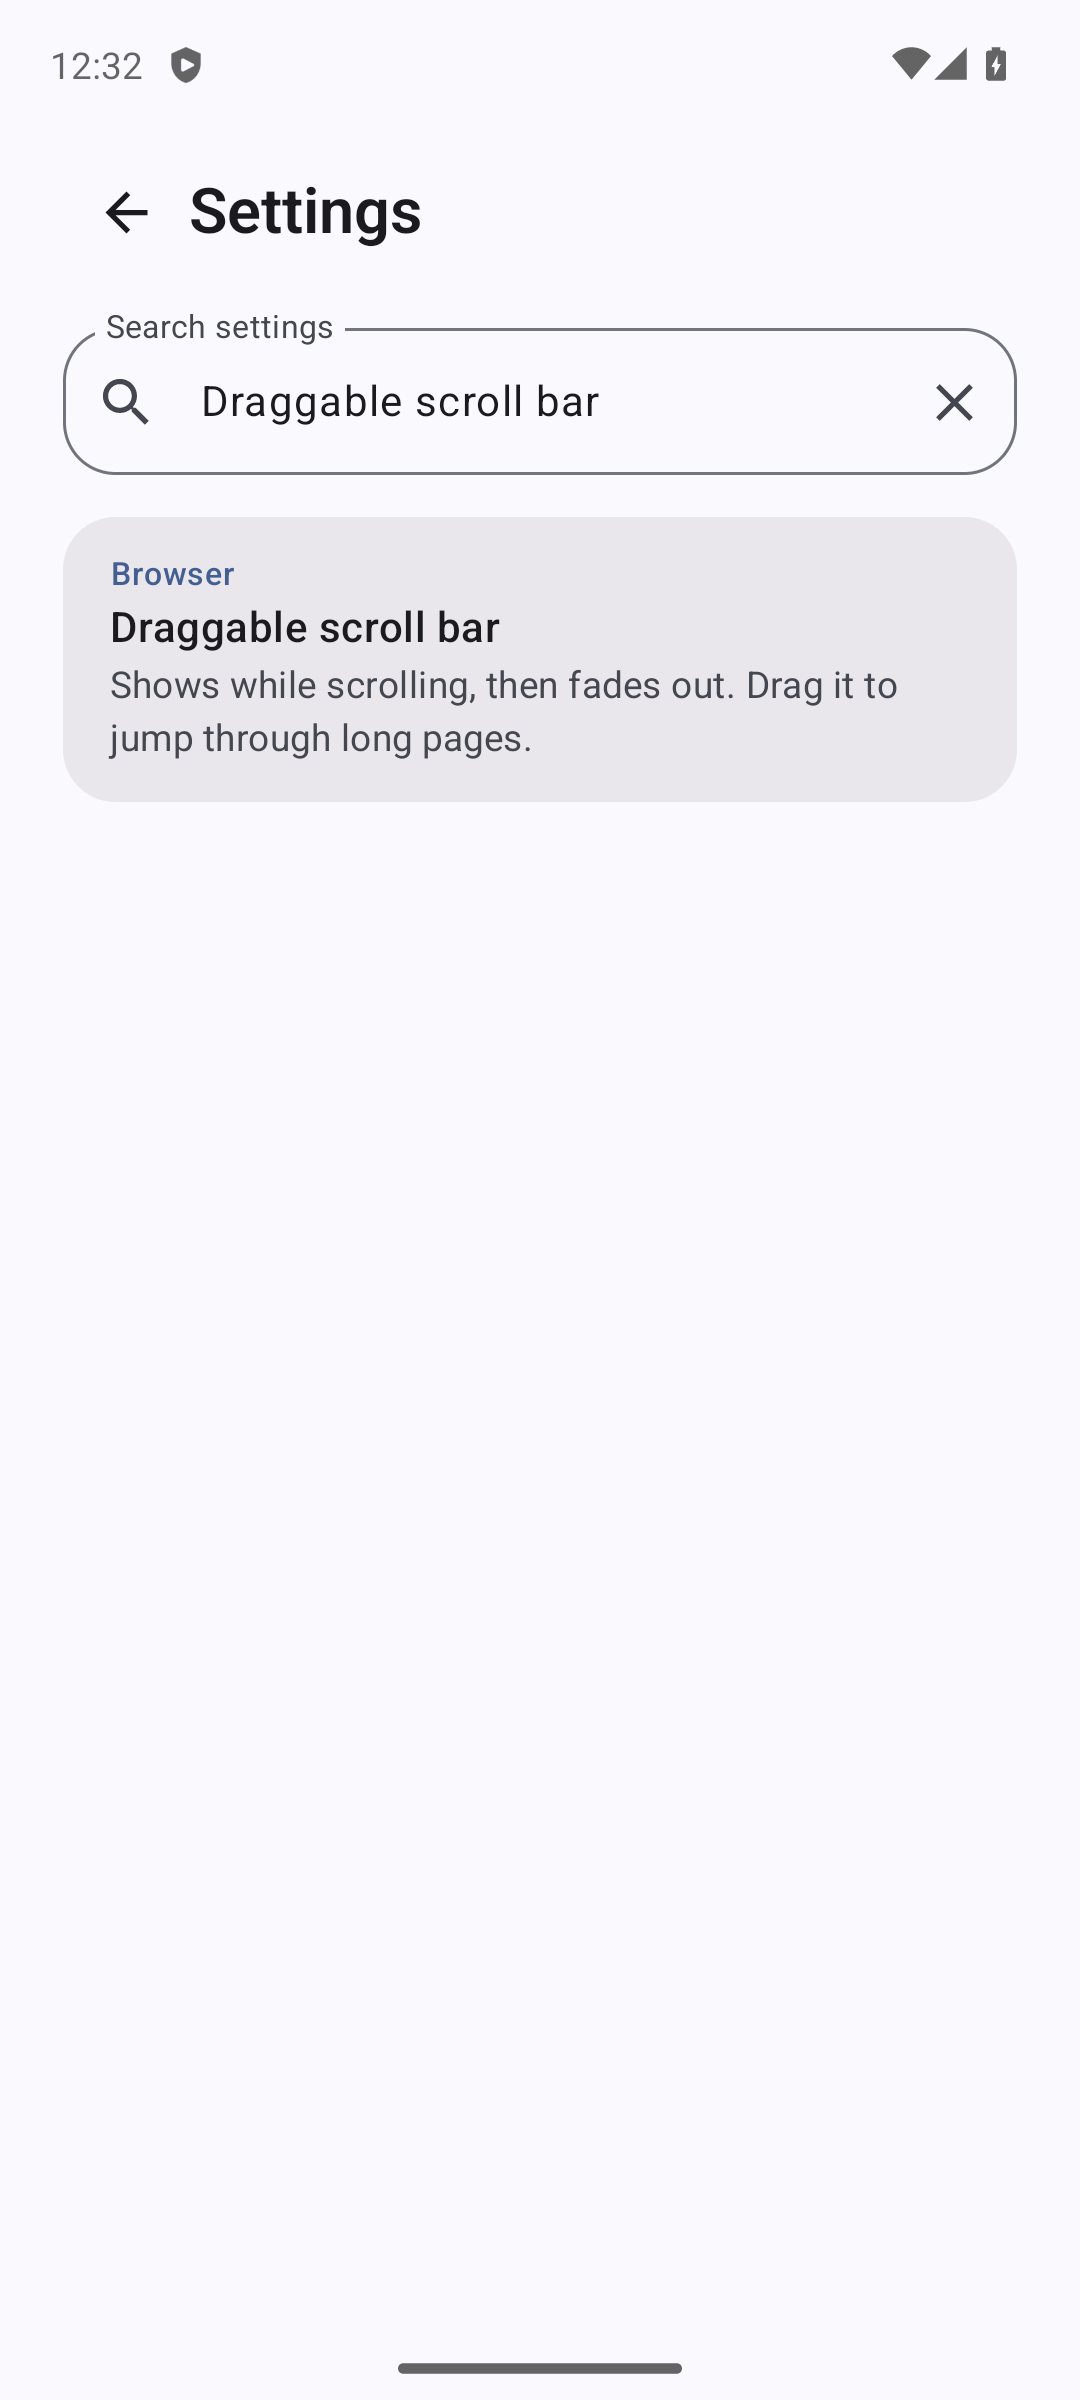
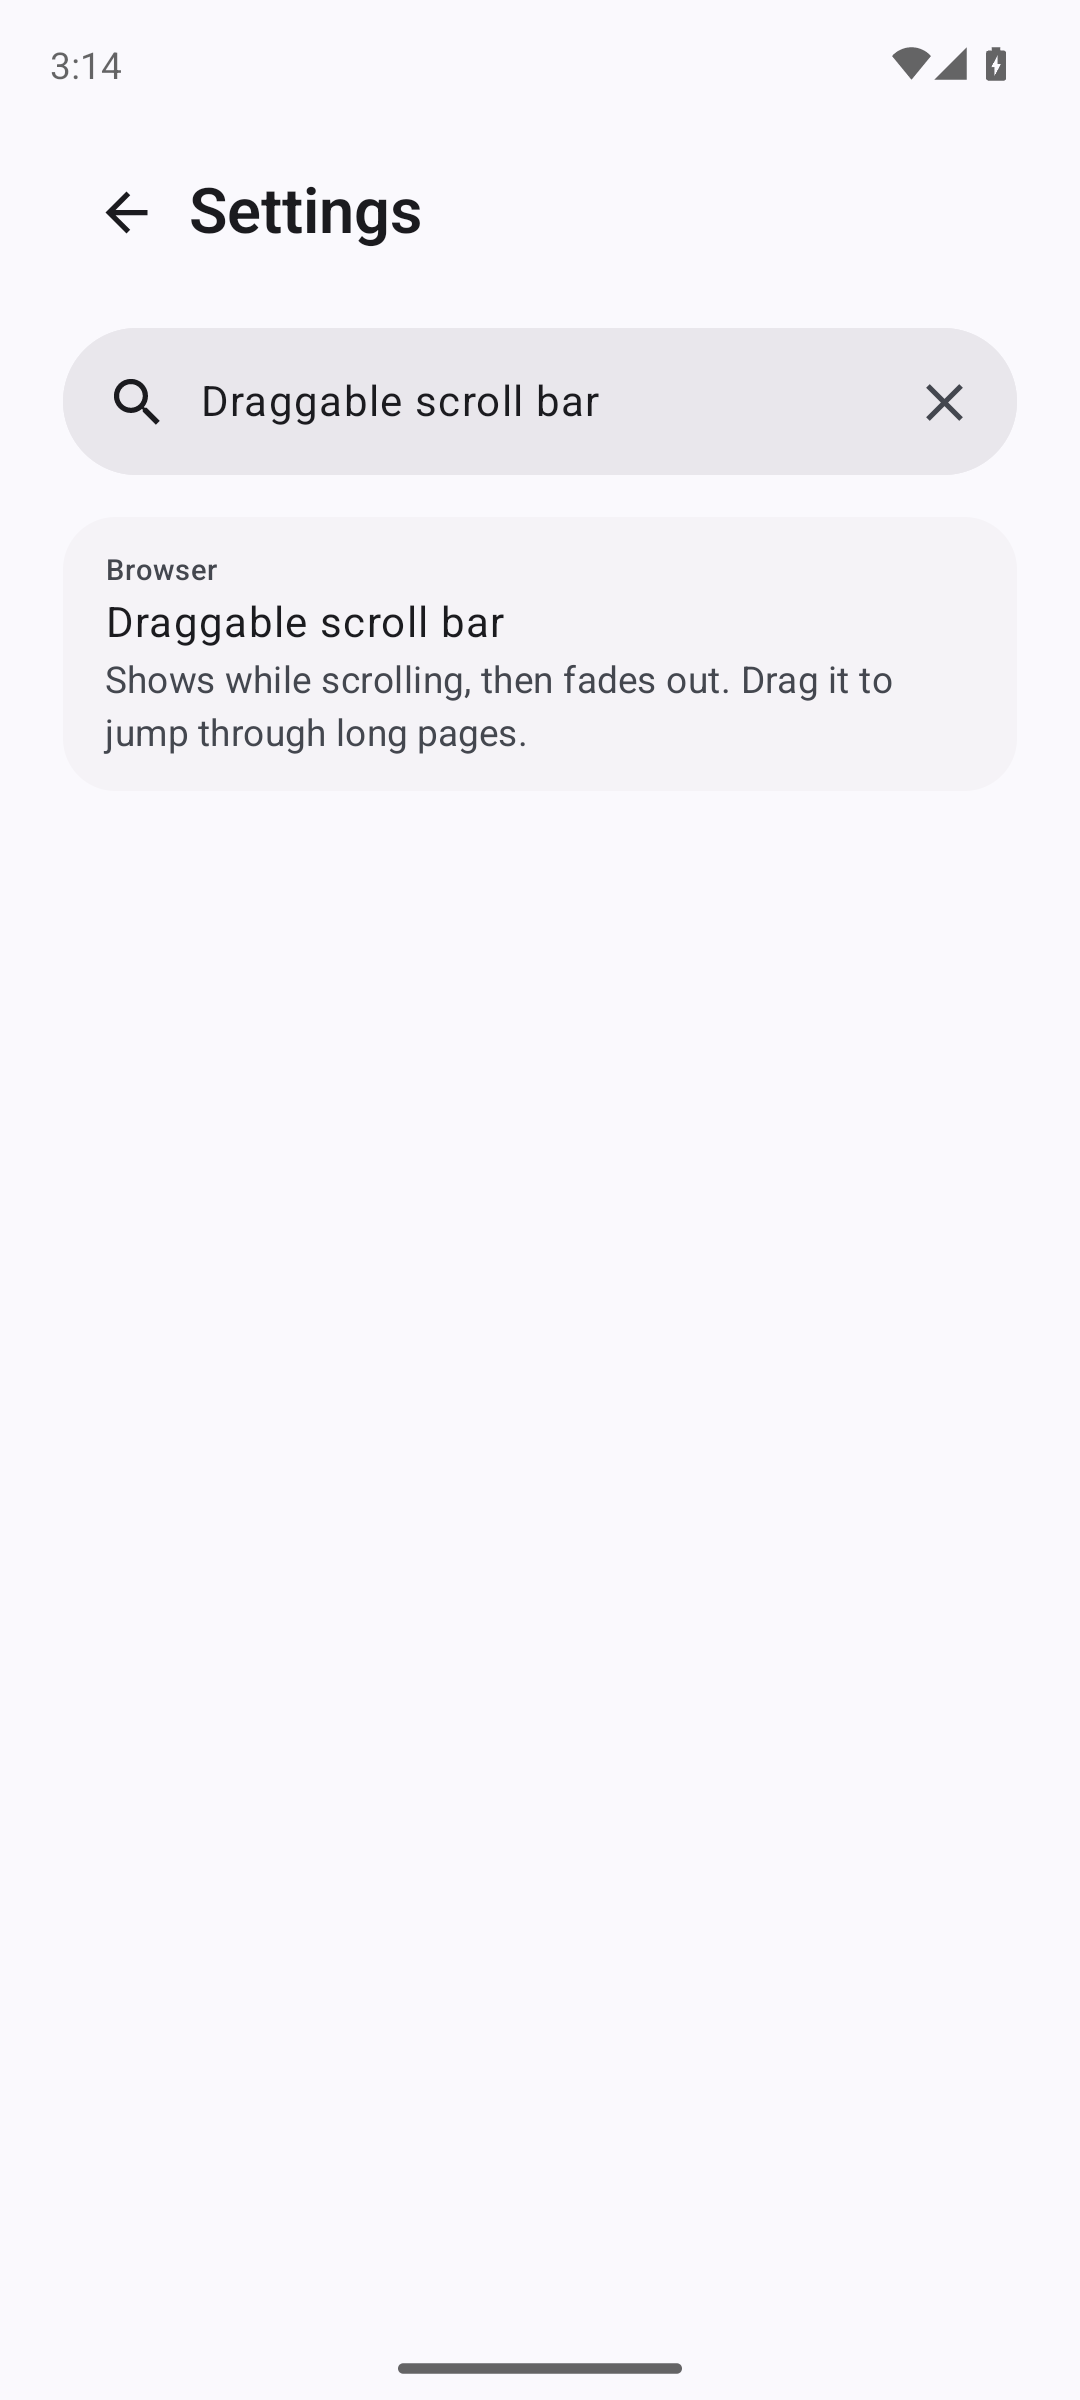
fix(settings): Use Material 3 search presentation (#269)
Replace the outlined settings input with the native Material 3 search bar
and shared list results. Preserve matching, routes and ephemeral query
behavior, and verify the 56 dp input in MainActivity instrumentation.

Include the integrated Full/Foss validation report and real API 34 UI
captures.

Refs #253

diff --git a/app/src/main/java/dev/sk2andy/materialbrowser/ui/SettingsSearchField.kt b/app/src/main/java/dev/sk2andy/materialbrowser/ui/SettingsSearchField.kt
@@ -1,29 +1,33 @@
 package dev.sk2andy.materialbrowser.ui
 
+import androidx.compose.foundation.clickable
 import androidx.compose.foundation.layout.Column
 import androidx.compose.foundation.layout.ColumnScope
 import androidx.compose.foundation.layout.Spacer
+import androidx.compose.foundation.layout.WindowInsets
 import androidx.compose.foundation.layout.fillMaxWidth
 import androidx.compose.foundation.layout.height
-import androidx.compose.foundation.layout.padding
-import androidx.compose.foundation.text.KeyboardActions
-import androidx.compose.foundation.text.KeyboardOptions
 import androidx.compose.material.icons.Icons
 import androidx.compose.material.icons.filled.Clear
 import androidx.compose.material.icons.filled.Search
+import androidx.compose.material3.ExperimentalMaterial3Api
 import androidx.compose.material3.Icon
 import androidx.compose.material3.IconButton
+import androidx.compose.material3.ListItem
+import androidx.compose.material3.ListItemDefaults
 import androidx.compose.material3.MaterialTheme
-import androidx.compose.material3.OutlinedTextField
+import androidx.compose.material3.SearchBar
+import androidx.compose.material3.SearchBarDefaults
 import androidx.compose.material3.Surface
 import androidx.compose.material3.Text
 import androidx.compose.runtime.Composable
 import androidx.compose.ui.Modifier
+import androidx.compose.ui.graphics.Color
 import androidx.compose.ui.platform.LocalFocusManager
 import androidx.compose.ui.platform.LocalSoftwareKeyboardController
 import androidx.compose.ui.platform.testTag
 import androidx.compose.ui.res.stringResource
-import androidx.compose.ui.text.input.ImeAction
+import androidx.compose.ui.semantics.Role
 import androidx.compose.ui.text.style.TextOverflow
 import androidx.compose.ui.unit.dp
 import dev.sk2andy.materialbrowser.R
@@ -35,6 +39,7 @@ internal object SettingsSearchTestTags {
     fun result(id: String): String = "settings_search_result_$id"
 }
 
+@OptIn(ExperimentalMaterial3Api::class)
 @Composable
 internal fun ColumnScope.SettingsSearchField(
     query: String,
@@ -44,30 +49,40 @@ internal fun ColumnScope.SettingsSearchField(
 ) {
     val keyboard = LocalSoftwareKeyboardController.current
     val focusManager = LocalFocusManager.current
-    OutlinedTextField(
-        value = query,
-        onValueChange = { onQueryChanged(it.take(SettingsSearchRules.MAX_QUERY_LENGTH)) },
-        modifier = Modifier.fillMaxWidth().testTag(SettingsSearchTestTags.Query),
-        label = { Text(stringResource(R.string.settings_search_hint)) },
-        leadingIcon = { Icon(Icons.Default.Search, contentDescription = null) },
-        trailingIcon = {
-            if (query.isNotEmpty()) {
-                IconButton(onClick = { onQueryChanged("") }) {
-                    Icon(
-                        Icons.Default.Clear,
-                        contentDescription = stringResource(R.string.history_clear_search),
-                    )
-                }
-            }
+    SearchBar(
+        inputField = {
+            SearchBarDefaults.InputField(
+                query = query,
+                onQueryChange = { onQueryChanged(it.take(SettingsSearchRules.MAX_QUERY_LENGTH)) },
+                onSearch = {
+                    keyboard?.hide()
+                    focusManager.clearFocus()
+                },
+                expanded = false,
+                onExpandedChange = {},
+                placeholder = { Text(stringResource(R.string.settings_search_hint)) },
+                leadingIcon = { Icon(Icons.Default.Search, contentDescription = null) },
+                trailingIcon = {
+                    if (query.isNotEmpty()) {
+                        IconButton(onClick = { onQueryChanged("") }) {
+                            Icon(
+                                Icons.Default.Clear,
+                                contentDescription = stringResource(R.string.history_clear_search),
+                            )
+                        }
+                    }
+                },
+                modifier = Modifier.testTag(SettingsSearchTestTags.Query),
+            )
         },
-        singleLine = true,
-        shape = MaterialTheme.shapes.large,
-        keyboardOptions = KeyboardOptions(imeAction = ImeAction.Search),
-        keyboardActions = KeyboardActions(onSearch = {
-            keyboard?.hide()
-            focusManager.clearFocus()
-        }),
-    )
+        expanded = false,
+        onExpandedChange = {},
+        windowInsets = WindowInsets(0, 0, 0, 0),
+        colors = SearchBarDefaults.colors(
+            containerColor = browserChromeColor(MaterialTheme.colorScheme.surfaceContainerHigh),
+        ),
+        modifier = Modifier.fillMaxWidth(),
+    ) {}
     Spacer(Modifier.height(16.dp))
     if (query.isBlank()) return
     val results = SettingsSearchRules.results(query, entries)
@@ -78,48 +93,48 @@ internal fun ColumnScope.SettingsSearchField(
             color = MaterialTheme.colorScheme.onSurfaceVariant,
             style = MaterialTheme.typography.bodyLarge,
         )
+        return
     }
-    results.forEach { entry ->
-        SettingsSearchResult(
-            entry = entry,
-            onClick = {
-                keyboard?.hide()
-                focusManager.clearFocus()
-                onResultSelected(entry)
-            },
-        )
-        SettingsPageSpacer()
+    Surface(
+        modifier = Modifier.fillMaxWidth(),
+        shape = MaterialTheme.shapes.large,
+        color = browserChromeColor(MaterialTheme.colorScheme.surfaceContainerLow),
+    ) {
+        Column {
+            results.forEach { entry ->
+                SettingsSearchResult(
+                    entry = entry,
+                    onClick = {
+                        keyboard?.hide()
+                        focusManager.clearFocus()
+                        onResultSelected(entry)
+                    },
+                )
+            }
+        }
     }
 }
 
 @Composable
 private fun SettingsSearchResult(entry: SettingsSearchEntry, onClick: () -> Unit) {
-    Surface(
-        onClick = onClick,
-        modifier = Modifier.fillMaxWidth().testTag(SettingsSearchTestTags.result(entry.id)),
-        shape = MaterialTheme.shapes.large,
-        color = browserChromeColor(
-            MaterialTheme.colorScheme.surfaceContainerHigh,
-        ),
-    ) {
-        Column(
-            modifier = Modifier.padding(horizontal = 18.dp, vertical = 14.dp),
-        ) {
-            Text(
-                entry.context,
-                style = MaterialTheme.typography.labelMedium,
-                color = MaterialTheme.colorScheme.primary,
-            )
-            Text(entry.title, style = MaterialTheme.typography.titleMedium)
-            if (entry.description.isNotBlank()) {
+    ListItem(
+        headlineContent = { Text(entry.title) },
+        overlineContent = { Text(entry.context) },
+        supportingContent = if (entry.description.isBlank()) null else {
+            {
                 Text(
                     entry.description,
-                    style = MaterialTheme.typography.bodyMedium,
-                    color = MaterialTheme.colorScheme.onSurfaceVariant,
                     maxLines = 3,
                     overflow = TextOverflow.Ellipsis,
                 )
             }
-        }
-    }
+        },
+        colors = ListItemDefaults.colors(
+            containerColor = Color.Transparent,
+        ),
+        modifier = Modifier
+            .fillMaxWidth()
+            .testTag(SettingsSearchTestTags.result(entry.id))
+            .clickable(role = Role.Button, onClick = onClick),
+    )
 }

diff --git a/app/src/androidTest/java/dev/sk2andy/materialbrowser/ui/SettingsSearchInstrumentedTest.kt b/app/src/androidTest/java/dev/sk2andy/materialbrowser/ui/SettingsSearchInstrumentedTest.kt
@@ -5,6 +5,7 @@ import androidx.compose.ui.semantics.SemanticsActions
 import androidx.compose.ui.semantics.SemanticsProperties
 import androidx.compose.ui.test.SemanticsMatcher
 import androidx.compose.ui.test.assert
+import androidx.compose.ui.test.assertHeightIsEqualTo
 import androidx.compose.ui.test.assertIsDisplayed
 import androidx.compose.ui.test.assertIsFocused
 import androidx.compose.ui.test.assertIsNotFocused
@@ -22,6 +23,7 @@ import androidx.compose.ui.test.performScrollTo
 import androidx.compose.ui.test.performSemanticsAction
 import androidx.compose.ui.test.performTextReplacement
 import androidx.compose.ui.text.AnnotatedString
+import androidx.compose.ui.unit.dp
 import androidx.core.view.ViewCompat
 import androidx.core.view.WindowInsetsCompat
 import androidx.test.ext.junit.runners.AndroidJUnit4
@@ -67,6 +69,10 @@ class SettingsSearchInstrumentedTest {
     @Test
     fun localizedSearchOpensVisibleOptionAndPersistsItsChange() {
         openSettings()
+        composeRule.onNodeWithTag(SettingsSearchTestTags.Query)
+            .assertHeightIsEqualTo(56.dp)
+            .assert(hasText(context.getString(R.string.settings_search_hint)))
+        captureScreenshot("issue253-home.png")
         val query = context.getString(R.string.settings_scroll_bar_title)
         search(query)
         val result = composeRule.onNodeWithTag(

diff --git a/docs/audits/issue-253-settings-search.md b/docs/audits/issue-253-settings-search.md
@@ -19,7 +19,7 @@
 | Private search | Real private-tab device test verifies the 200-character limit, absence from session preferences and discarded query after Activity recreation. |
 | Existing navigation | Existing Player navigation regression exercises the shared home and page shell. |
 
-## Validation
+## Initial feature validation
 
 | Check | Result |
 | --- | --- |
@@ -37,9 +37,30 @@ Combined local validation used main commit `affa9d23` with feature/test snapshot
 
 Runtime coverage uses the English API 34 emulator. Other locales receive structural resource validation and pure matching coverage; physical devices and every locale/engine combination are not runtime-verified.
 
+## Material 3 presentation follow-up
+
+The [Material search specification](https://m3.material.io/components/search/specs) calls for a filled search bar and a list of results. [PR 269](https://github.com/sk2andy/candy-browser/pull/269) replaces the outlined input and separate cards with native Material 3 `SearchBar`, `SearchBarDefaults.InputField` and `ListItem` rows in one shared container. It follows the existing History/Downloads inline-search pattern; matching, routes and ephemeral query ownership stay unchanged.
+
+| Check | Result |
+| --- | --- |
+| Integration | Main `485f1d05` with presentation/test snapshot `672c3153`. |
+| Full/Foss unit suites | 1,824 passed each; zero failures, errors or skipped. |
+| Full/Foss lint and debug assembly | Passed. |
+| Full instrumentation APK assembly | Passed. |
+| Dedicated API 34 MainActivity instrumentation | 6 passed in 65.196 seconds; zero skipped. |
+| Native search geometry | Instrumentation verifies the input is 56 dp high and shows the localized inline placeholder. |
+| Independent API/style/test review | No blocking findings; resolved Material 3 version is `1.4.0-alpha08`, no dependency change. |
+| Required CI | Final-head safe-area and Google Cast checks tracked in [PR 269](https://github.com/sk2andy/candy-browser/pull/269/checks). |
+
+The source-head Cast CI initially timed out in the existing Gecko video test with no native video tracks. The unchanged failed job passed on one rerun. No Cast code or CI requirement was changed; the exact timing cause was not established.
+
+The same two-worker Gradle checks and explicit dedicated-device runner listed above were used. Runtime coverage remains English/API 34; this correction adds no translations. The emulator and own host lock were released after the run.
+
 ## Captured UI
 
-The images below are taken from real MainActivity instrumentation, after the Search IME action and after opening the matching control. They are not mockups.
+The images below are from the latest Material presentation MainActivity instrumentation: collapsed search bar, results after Search IME, and the opened matching control. Files are copied byte-for-byte from the emulator; they are not mockups.
+
+![Native Material search bar on Settings Home](../screenshots/settings-search-home.png)
 
 ![Settings search results](../screenshots/settings-search.png)
 

diff --git a/docs/browsing/appearance-and-settings.md b/docs/browsing/appearance-and-settings.md
@@ -293,7 +293,8 @@ path defect found while reviewing #204 and the measured verification scope.
 
 | Contract | Behavior |
 | --- | --- |
-| Empty query | Show the existing Settings Home categories below the Material search field. |
+| Search presentation | Native Material 3 `SearchBar` and `SearchBarDefaults.InputField`, with a filled 56 dp pill, inline placeholder and theme colors. Results use native `ListItem` rows in one shared container below the bar, following the library-search pattern. |
+| Empty query | Show the existing Settings Home categories below the search bar. |
 | Matching | Match every word against localized title, description or page context, ignoring case and accents. Prefer exact titles, then title matches; preserve catalog order for ties. |
 | Availability | Build entries from current browser/search engine, suggestion provider, flavor capabilities, download manager, appearance and developer unlock. Do not index unavailable conditional controls or user-owned data. |
 | Navigation | Open the existing settings destination without changing a preference. Common choices, switches, links and sliders scroll the matched control into view and show a theme-colored outline. External Firefox extensions use the existing action. |
